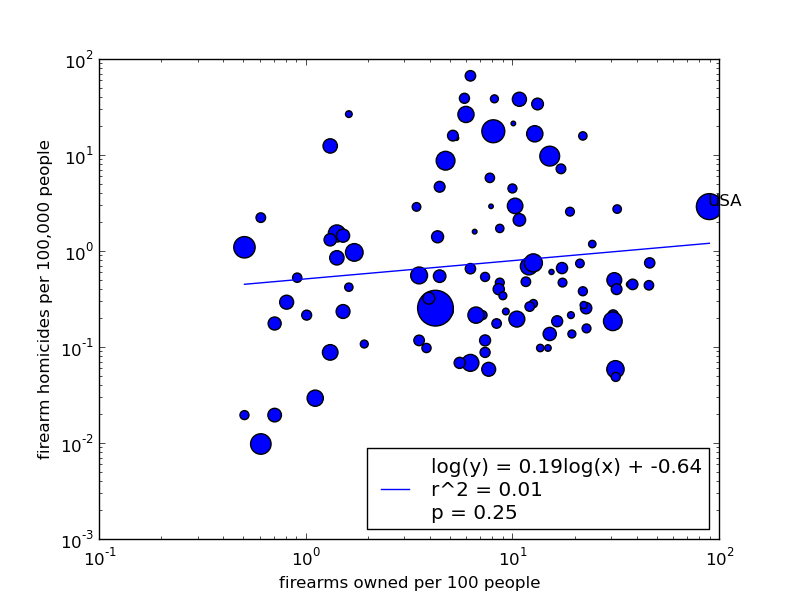
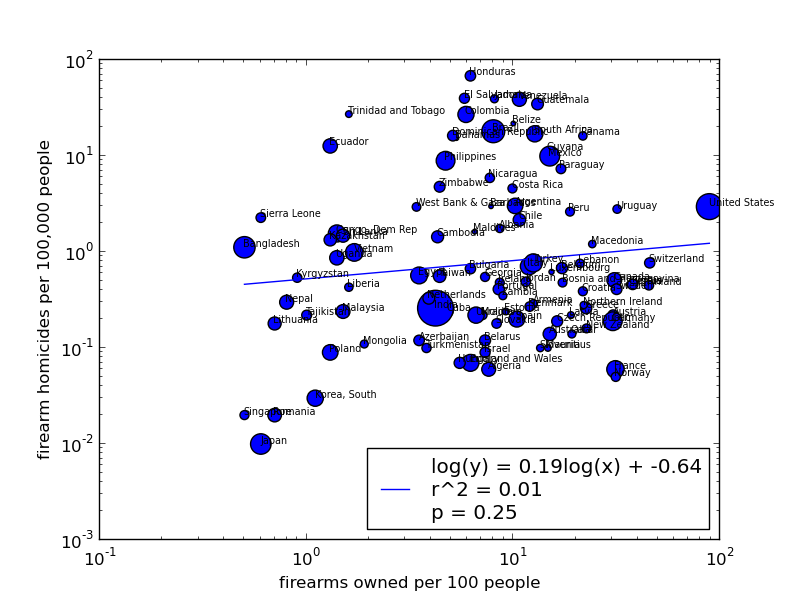
Label all countries.

diff --git a/guns.py b/guns.py
@@ -34,6 +34,8 @@ for row in reader:
             countries[country] = (x, y)
     except: pass
 
+figure(dpi=200)
+
 if PLOT == 1:
     xlabel('firearms owned')
     ylabel('total firearm homicides')
@@ -51,7 +53,10 @@ plot(sorted(xs), [e**b * x**m for x in sorted(xs)],
      label='log(y) = %slog(x) + %s\nr^2 = %s\np = %.2g' % (round(m, 2), round(b, 2), round(r**2, 2), p))
 
 
-for label, country in [
+for country in countries:
+    annotate(country, xy = countries[country], size='xx-small')
+
+'''for label, country in [
                        ('USA', 'United States'),
                        #('Denmark', 'Denmark'),
                        #('Japan', 'Japan'),
@@ -61,7 +66,7 @@ for label, country in [
                        #('S. Korea', 'Korea, South'),
                        ]:
     try: annotate(label, xy = countries[country])
-    except KeyError: pass
+    except KeyError: pass'''
 
 legend(loc='lower right')
 savefig('figure%s.png' % PLOT)
